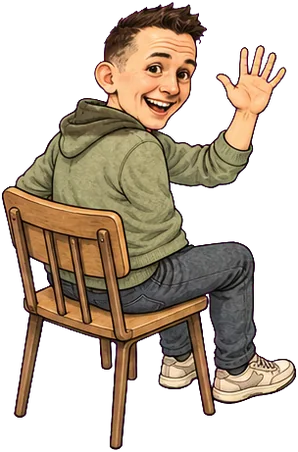
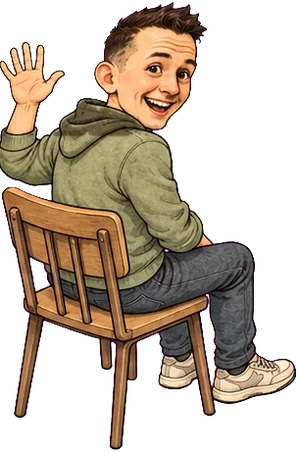
fix(room): mini Peter waves with his right arm and keeps his left on his lap (the first fix had removed the wrong arm); the post's before/after and text say so

diff --git a/components/blog/media-dimensions.ts b/components/blog/media-dimensions.ts
@@ -17,6 +17,6 @@ export const imageDimensions: Record<string, { width: number; height: number }> 
   "/assets/blog/pocket-room/mockup.webp": { width: 1200, height: 800 },
   "/assets/blog/pocket-room/plate.webp": { width: 1536, height: 1024 },
   "/assets/blog/pocket-room/shapes.webp": { width: 1800, height: 907 },
-  "/assets/blog/pocket-room/wave-after.webp": { width: 834, height: 870 },
-  "/assets/blog/pocket-room/wave-before.webp": { width: 834, height: 870 },
+  "/assets/blog/pocket-room/wave-after.webp": { width: 596, height: 904 },
+  "/assets/blog/pocket-room/wave-before.webp": { width: 596, height: 904 },
 };

diff --git a/components/room/tools/fixes.py b/components/room/tools/fixes.py
@@ -17,10 +17,13 @@ HERE = Path(os.environ.get("ROOM_ART", Path(__file__).parent / "art"))
 # sheet: [(fix name, crop box in the sheet, polygon in crop pixels, feather px)]
 FIXES = {
     "peter-sheet": [
-        # The wave pose had three hands: a second right sleeve and hand resting on his lap under
-        # the waving arm. peter-wave-fix.png is that cell (1100,500)-(1440,1010), upscaled 3x to
-        # 1024x1536 and repainted without the extra arm (prompts/peter-wave-fix.txt).
-        ("peter-wave-fix", (1100, 500, 1440, 1010), [(136, 158), (196, 146), (222, 186), (252, 246), (258, 322), (148, 324), (128, 250)], 3),
+        # The wave pose had both arms on his left shoulder (the waving one and one resting on his
+        # lap) and none on his right. peter-wave-fix-2.png is that cell (1100,500)-(1440,1010),
+        # upscaled 3x to 1024x1536 and repainted so he waves with his right arm and keeps the left
+        # one on his lap (prompts/peter-wave-fix-2.txt). The repaint lines up with the original to
+        # the pixel and only the arms changed, so the band across both shoulders is taken whole.
+        # (peter-wave-fix.png, which removed the lap arm instead, was the wrong fix.)
+        ("peter-wave-fix-2", (1100, 500, 1440, 1010), [(0, 40), (340, 40), (340, 240), (0, 240)], 6),
     ],
 }
 

diff --git a/.claude/skills/pocket-room-art/SKILL.md b/.claude/skills/pocket-room-art/SKILL.md
@@ -39,6 +39,8 @@ re-explore a rejected direction unless he asks.
   name. Projects whose name explains nothing get their two tags in grey after it.
 - **Favicon**: mini-Peter shouting under the Fushimi Inari torii, on torii orange, matching his X
   avatar (a shouting selfie at the torii).
+- Anatomy: check that each arm comes from its own shoulder. The wave pose once had both arms on one
+  shoulder, and the first fix removed the wrong one.
 - Rejected along the way: a riso/halftone two-ink print look, "live trick" HTML illustrations,
   screenshots on mini devices, scrapbook field notes, full-page manga repaints, and the room going
   dark at night.
@@ -51,7 +53,7 @@ re-explore a rejected direction unless he asks.
 | View through the window | `view.webp` | `art/view.png` | `prompts/view.txt` | `mock-screen.png`, `plate-a.png` | `build.py` |
 | Trains | `train-shinkansen.webp`, `train-local.webp` | `art/trains.png` (on magenta) | `prompts/trains.txt` | `mock-screen.png` | `build.py` |
 | Peter's six poses | `peter-*.webp` | `art/peter-sheet.png` (on magenta) | `prompts/peter.txt` | `mock-screen.png`, `art/peter-character-ink.jpg`, `art/peter-photo.png` | `build.py` |
-| Peter's wave, extra arm removed | `peter-wave.webp` | `art/fixes/peter-wave-fix.png` | `prompts/peter-wave-fix.txt` | `art/fixes/peter-wave-crop.png` | `fixes.py` (inside `build.py`) |
+| Peter's wave, arms fixed (waves with his right, left hand on his lap; `peter-wave-fix.png` was a wrong first try) | `peter-wave.webp` | `art/fixes/peter-wave-fix-2.png` | `prompts/peter-wave-fix-2.txt` | `art/fixes/peter-wave-crop.png` | `fixes.py` (inside `build.py`) |
 | Notebooks, cat, mug, printed part | `notebook-*.webp`, `cat.webp`, `part.webp` | `art/props.png` (on magenta) | `prompts/props.txt` | `art/plate-b.png` | `build.py` |
 | App-screen object cards | `card-<id>.webp` | `art/cards/<id>.png` (on magenta) | `prompts/card-<id>.txt` | plate crop (`cards.py refs`), `plate-b.png` | `cards.py` |
 | Project cards | `projects/<slug>.webp` and `projects/<slug>-pencil.webp` | `art/projects/<slug>.png` (on paper) | `prompts/project-<slug>.txt` | the real screenshot or photo in `art/projects/refs/` (+ `art/plate-b.png` as the style) | `projects.py` |
@@ -110,7 +112,7 @@ Quirks:
 
 | What | Where |
 |---|---|
-| Prompts | `components/room/tools/prompts/*.txt` (`plate-b`, `view`, `trains`, `peter`, `props`, `card-<id>`, `project-<slug>`, `peter-wave-fix`, `favicon`) |
+| Prompts | `components/room/tools/prompts/*.txt` (`plate-b`, `view`, `trains`, `peter`, `props`, `card-<id>`, `project-<slug>`, `peter-wave-fix-2`, `favicon`) |
 | Source paintings | `components/room/tools/art/` (`plate-b.png` is THE room; `peter-sheet.png`, `props.png`, `trains.png`, `view.png`; `brand/` favicon) |
 | Card sources | `components/room/tools/art/cards/<id>.png` (one object on magenta, 1024-1536 px) |
 | Repairs | `components/room/tools/art/fixes/<name>.png` (GPT edit of a crop) + the polygon in `fixes.py` |
